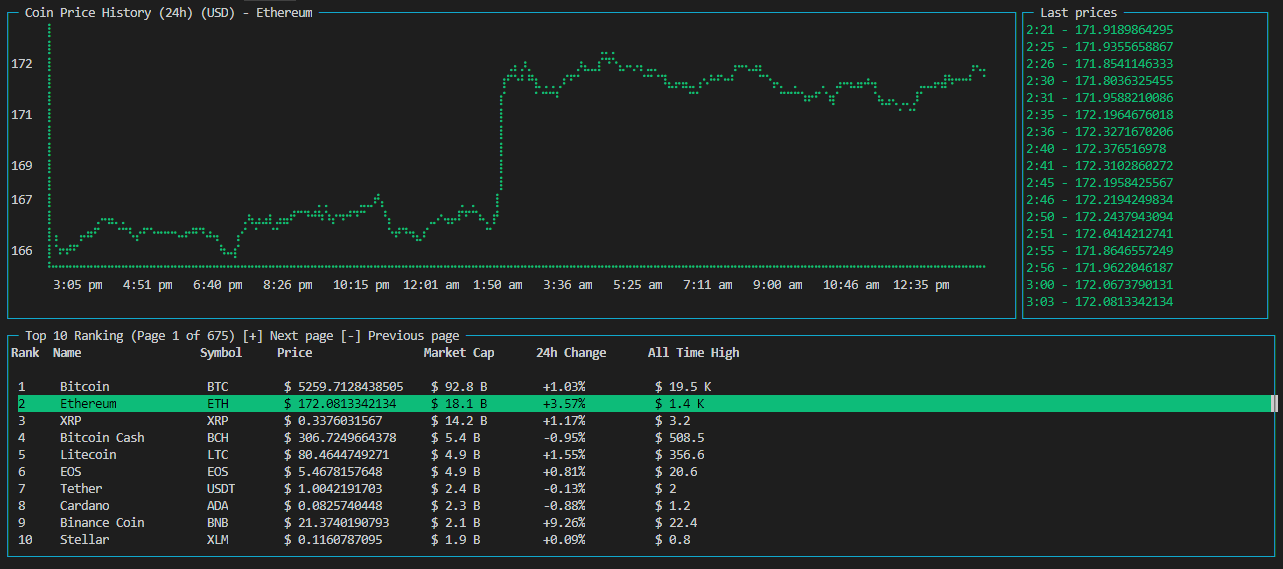
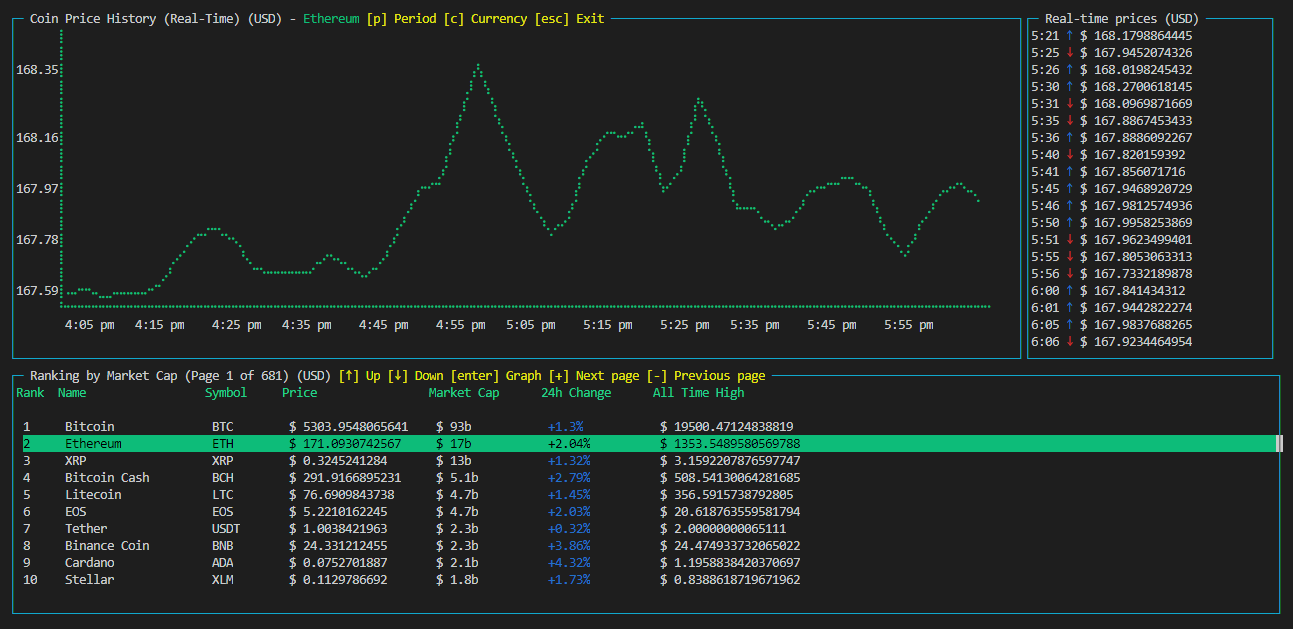
CLI Update v1.0.1

diff --git a/index.js b/index.js
@@ -1,6 +1,10 @@
 const blessed = require('blessed');
 const contrib = require('blessed-contrib');
 const moment = require('moment');
+const colors = require('colors/safe');
+const approx = require('approximate-number');
+const figures = require('figures');
+
 const getRanking = require('./utils/coinRanking');
 const getCoinHistory = require('./utils/coinHistory');
 
@@ -11,18 +15,13 @@ var currentCoinId = -1;
 var currentCoinName = "";
 var offset = 0;
 var currentPage = 0;
+var periodIndex = 0;
+var currencyIndex = 0;
+var currencySymbol = "";
+var realTimeRefresh = 60000; // 1 min
 
-// ========= FIX =========
-// - Request by page
-// # Graph data 24h/7d/etc...
-// + Log Box with price data from graph
-// + Parameters
-// + Help Page
-// # Class for graph and other for table
-// # Check global vars
-// + Screen Resize
-// =======================
-
+const period = ['Real-Time', '24h', '7d', '30d', '1y'];
+const currency = ['USD', 'EUR'];
 
 module.exports = (args) => {
     // Create screen
@@ -35,18 +34,14 @@ module.exports = (args) => {
     var log = createLog(grid, []);
 
     // Create coin graph
-    var graph = createGraph(grid, log);
+    var graph = createGraph(grid);
 
     // Create ranking table
-    var table = createTable(grid, screen, log);
+    var table = createTable(grid, screen);
 
     // Set keys
     setKeys(grid, screen);
     
-    // Screen Resize
-    // NOT WORKING
-    //screenResize(screen, graph, table);
-
     // Render the screen.
     screen.render();
 }
@@ -75,23 +70,41 @@ function createGridLayout(screen){
   return grid;
 }
 
-async function createGraph(grid, log){  
+async function createGraph(grid){  
   var minPrice = 0;
   var historyPrice = [];
   var historyDate = [];
   var graph = 0;
+  var realTimeDataLimit = 50;
 
   if(currentCoinId > 0){
-    const coinHistory = await getCoinHistory(currentCoinId);
-  
-    log = createLog(grid, coinHistory.data.history);
+    var periodAux = period[periodIndex];
+    if(periodIndex == 0){
+      periodAux = period[1];
+    }
 
-    historyPrice = new Array(coinHistory.data.history.length);
-    historyDate = new Array(coinHistory.data.history.length);
+    const coinHistory = await getCoinHistory(currentCoinId, periodAux, currency[currencyIndex]);
+    var coinHistoryData = [];
+    if(periodIndex == 0){
+      coinHistoryData = coinHistory.data.history.slice(0,realTimeDataLimit);
+    }else{
+      coinHistoryData = coinHistory.data.history;
+    }
+
+    createLog(grid, coinHistoryData);
+
+    historyPrice = new Array(coinHistoryData.length);
+    historyDate = new Array(coinHistoryData.length);
 
     for (var i = 0; i < historyPrice.length; i++) {
-      historyPrice[i] = parseFloat(coinHistory.data.history[i].price);
-      historyDate[i] = formatDateFor24h(new Date(coinHistory.data.history[i].timestamp));
+      historyPrice[i] = parseFloat(coinHistoryData[i].price);
+      if(periodIndex == 0 || periodIndex == 1){
+        historyDate[i] = moment(new Date(coinHistoryData[i].timestamp)).format("h:mm a");
+      }else if(periodIndex == 2 || periodIndex == 3){
+        historyDate[i] = moment(new Date(coinHistoryData[i].timestamp)).format("D MMM");
+      }else{
+        historyDate[i] = moment(new Date(coinHistoryData[i].timestamp)).format("MMM Y");
+      }
     }
 
     var minPrice = Math.min.apply(Math, historyPrice);
@@ -104,13 +117,14 @@ async function createGraph(grid, log){
       , xLabelPadding: 10
       , xPadding: 1
       , minY: minPrice
+      , abbreviate: true
       , showLegend: false
       , wholeNumbersOnly: false
-      , label: ' Coin Price History (24h) (USD) - ' + currentCoinName + ' '
+      , label: ' Coin Price History (' + period[periodIndex] + ') (' + currency[currencyIndex] + ') - ' + colors.green(currentCoinName) + colors.yellow(' [p] Period [c] Currency [esc] Exit ')
     });
 
     var data = {
-      title: 'Price (USD)',
+      title: 'Price (' + period[periodIndex] + ')',
       x: historyDate,
       y: historyPrice
     };
@@ -118,31 +132,48 @@ async function createGraph(grid, log){
     graph.setData([data]);
   }else{
     var graph = grid.set(0, 0, 4, 4, contrib.line, 
-      { label: ' Coin Price History (24h) (USD) '
+      { label: ' Coin Price History (' + period[periodIndex] + ') (' + currency[currencyIndex] + ')' + colors.yellow(' [c] Currency [esc] Exit ')
       });
   }
 
   return graph;
 }
 
-function createLog(grid, coinHistoryData){  
+function createLog(grid, coinHistoryData){
+  var title = ""
+  if(periodIndex == 0){
+    title = ' Real-time prices (' + currency[currencyIndex] + ') ';
+  }else{
+    title = ' Last graph prices (' + currency[currencyIndex] + ') ';
+  }
+
   var log = grid.set(0, 4, 4, 1, contrib.log,
-    { fg: "green"
+    { fg: "white"
     , selectedFg: "green"
-    , label: ' Last prices '});
+    , label: title});
 
   if(coinHistoryData.length > 0){
     var num = 30;
     for (var i = coinHistoryData.length - num; i < coinHistoryData.length; i++) {
-      log.log(formatDate(coinHistoryData[i].timestamp) + " - " + coinHistoryData[i].price);
+      if(coinHistoryData[i].price > coinHistoryData[i - 1].price){
+        var arrow = " " + colors.blue(figures.arrowUp) + " ";
+      }else{
+        var arrow = " " + colors.red(figures.arrowDown) + " ";
+      }
+
+      if(periodIndex == 0){
+        log.log(moment(coinHistoryData[i].timestamp).format("h:mm") + arrow + currencySymbol + " " + coinHistoryData[i].price);
+      }else{
+        log.log(moment(coinHistoryData[i].timestamp).format('D/M/Y h:mm') + arrow + currencySymbol +  " " + approx(coinHistoryData[i].price));
+      }
     }
   }
 
   return log;
 }
 
-async function createTable(grid, screen, log){
-  const ranking = await getRanking(limit, offset)
+async function createTable(grid, screen){
+  const ranking = await getRanking(limit, offset, currency[currencyIndex])
   var coinList = new Array(ranking.data.coins.length);
   totalCoins = ranking.data.stats.total;
   var coinNameMaxLength = 20;
@@ -154,14 +185,15 @@ async function createTable(grid, screen, log){
     , selectedBg: 'green'
     , interactive: true
     , align: 'left'
-    , label: ' Top ' + limit + ' Ranking (Page ' + (currentPage + 1) + ' of ' + Math.round(totalCoins/limit) + ') [+] Next page [-] Previous page '
+    , label: ' Ranking by Market Cap (Page ' + (currentPage + 1) + ' of ' + Math.round(totalCoins/limit) + ') (' + currency[currencyIndex] + ') ' + colors.yellow('[' + figures.arrowUp + '] Up [' + figures.arrowDown + '] Down [enter] Graph [+] Next page [-] Previous page ')
     , width: '100%'
     , height: '100%'
-    , border: {type: "line", fg: "white"}
     , columnSpacing: 2
     , columnWidth: [5, coinNameMaxLength, 10, 20, 15, 15, 20] });
 
   table.focus();
+
+  currencySymbol = ranking.data.base.sign;
 
   for (var i = 0; i < coinList.length; i++) {
     var coin = ranking.data.coins[i];
@@ -188,26 +220,26 @@ async function createTable(grid, screen, log){
     if(coin.price == null){
       coinInfo.push("n/a")
     }else{
-      coinInfo.push(ranking.data.base.sign + " " + coin.price);
+      coinInfo.push(currencySymbol + " " + coin.price);
     }
     if(coin.marketCap == null){
       coinInfo.push("n/a")
     }else{
-      coinInfo.push(ranking.data.base.sign + " " + formatNumber(coin.marketCap));
+      coinInfo.push(currencySymbol + " " + approx(coin.marketCap));
     }
     if(coin.change == null){
       coinInfo.push("n/a")
     }else{
       if(coin.change > 0){
-        coinInfo.push("+" + coin.change + "%");
+        coinInfo.push(colors.blue("+" + coin.change + "%"));
       }else{
-        coinInfo.push(coin.change + "%");
+        coinInfo.push(colors.red(coin.change + "%"));
       }
     }
     if(coin.allTimeHigh == null){
       coinInfo.push("n/a")
     }else{
-      coinInfo.push(ranking.data.base.sign + " " + formatNumber(coin.allTimeHigh.price));
+      coinInfo.push(currencySymbol + " " + coin.allTimeHigh.price);
     }
 
     coinList[i] = coinInfo;
@@ -219,19 +251,20 @@ async function createTable(grid, screen, log){
     if(currentCoinId != selectedCoinId){
       currentCoinId = selectedCoinId;
       currentCoinName = ranking.data.coins[index].name;
-      createGraph(grid, log);
+      createGraph(grid);
       screen.render();
 
-      // Real Time Data (30 sec)
-      setInterval(function() {
-        createGraph(grid, log);
-        screen.render();
-      }, 30000)
+      if(periodIndex == 0){
+        setInterval(function() {
+          createGraph(grid);
+          screen.render();
+        }, realTimeRefresh);
+      }
     }
   });
 
   table.setData(
-  { headers: ['Rank', 'Name', 'Symbol', 'Price', 'Market Cap', '24h Change', 'All Time High']
+  { headers: [colors.green('Rank'), colors.green('Name'), colors.green('Symbol'), colors.green('Price'), colors.green('Market Cap'), colors.green('24h Change'), colors.green('All Time High')]
   , data: coinList
   });
 
@@ -240,8 +273,40 @@ async function createTable(grid, screen, log){
 
 function setKeys(grid, screen){
     // Exit CLI
-    screen.key(['escape', 'q', 'C-c'], function(ch, key) {
+    screen.key(['escape', 'C-c'], function(ch, key) {
       return process.exit(0);
+    });
+
+    // Change period
+    screen.key(['p'], function(ch, key) {
+      if(periodIndex == (period.length - 1)){
+        periodIndex = 0;
+      }else{
+        periodIndex++;
+      }
+
+      createGraph(grid);
+      screen.render();
+
+      if(periodIndex == 0){
+        setInterval(function() {
+          createGraph(grid);
+          screen.render();
+        }, realTimeRefresh);
+      }
+    });
+
+    // Change currency
+    screen.key(['c'], function(ch, key) {
+      if(currencyIndex == (currency.length - 1)){
+        currencyIndex = 0;
+      }else{
+        currencyIndex++;
+      }
+
+      createTable(grid, screen);
+      createGraph(grid);
+      screen.render();
     });
 
     // Next page
@@ -264,46 +329,3 @@ function setKeys(grid, screen){
       }
     });
 };
-
-function screenResize(screen, graph, table){
-  screen.on('resize', function() {
-    graph.emit('attach');
-    table.emit('attach');
-  });
-}
-
-function formatNumber(n) {
-  var decimalPlaces = 1;
-
-  return Math.abs(Number(n)) >= 1.0e+9
-  ? formatNumberWithDecimalPlaces(Math.abs(Number(n)) / 1.0e+9, decimalPlaces) + " B"
-  : Math.abs(Number(n)) >= 1.0e+6
-  ? formatNumberWithDecimalPlaces(Math.abs(Number(n)) / 1.0e+6, decimalPlaces) + " M"
-  : Math.abs(Number(n)) >= 1.0e+3
-  ? formatNumberWithDecimalPlaces(Math.abs(Number(n)) / 1.0e+3, decimalPlaces) + " K"
-  : formatNumberWithDecimalPlaces(Math.abs(Number(n)), decimalPlaces);
-}
-
-function formatNumberWithDecimalPlaces(n, d) {
-  return Math.round(n * Math.pow(10, d)) / Math.pow(10, d)
-}
-
-function formatDate(date) {
-  return moment(date).format("h:mm");
-}
-
-function formatDateFor24h(date) {
-  return moment(date).format("h:mm a");
-}
-
-function formatDateFor7d30d(date) {
-  return moment(date).format("D MMM");
-}
-
-function formatDateFor1y(date) {
-  return moment(date).format("MMM");
-}
-
-function formatDateFor5y(date) {
-  return moment(date).format("MMM Y");
-}

diff --git a/utils/coinRanking.js b/utils/coinRanking.js
@@ -1,9 +1,9 @@
 const axios = require('axios')
 
-module.exports = async (limit, page) => {
+module.exports = async (limit, page, currency) => {
   const results = await axios({
     method: 'get',
-    url: 'https://api.coinranking.com/v1/public/coins?limit=' + limit + '&offset=' + page,
+    url: 'https://api.coinranking.com/v1/public/coins?limit=' + limit + '&offset=' + page + '&base=' + currency,
     params: {
       format: 'json'
     },

diff --git a/utils/coinHistory.js b/utils/coinHistory.js
@@ -1,9 +1,9 @@
 const axios = require('axios')
 
-module.exports = async (coinId) => {
+module.exports = async (coinId, period, currency) => {
   const results = await axios({
     method: 'get',
-    url: 'https://api.coinranking.com/v1/public/coin/' + coinId + '/history/24h',
+    url: 'https://api.coinranking.com/v1/public/coin/' + coinId + '/history/' + period + '?base=' + currency,
     params: {
       format: 'json'
     },

diff --git a/README.md b/README.md
@@ -4,6 +4,12 @@
 
 https://www.npmjs.com/package/cryptostats-cli
 
+## Features
+- Table pagination
+- Change currency
+- Change period
+- Real-time data (1 min refresh)
+
 ## Requirements
 - Node.js. & NPM
 
@@ -21,6 +27,10 @@ https://github.com/yaronn/blessed-contrib
 https://github.com/axios/axios
 
 https://github.com/moment/moment
+
+https://github.com/nfriedly/approximate-number
+
+https://github.com/sindresorhus/figures
 
 ## Data
 https://docs.coinranking.com/
